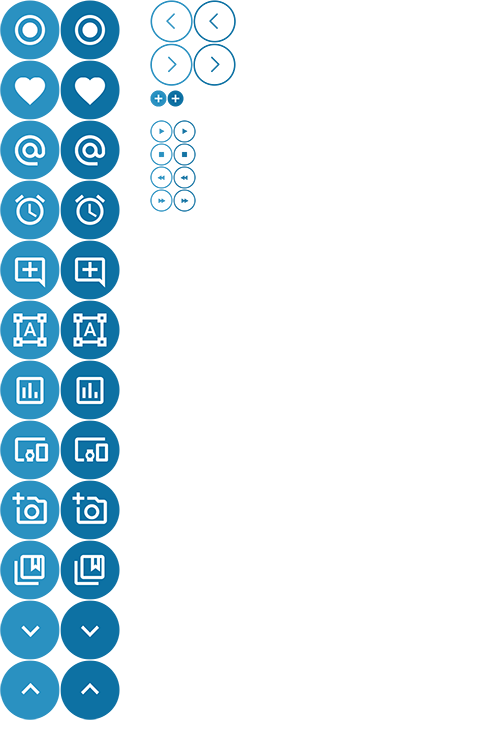
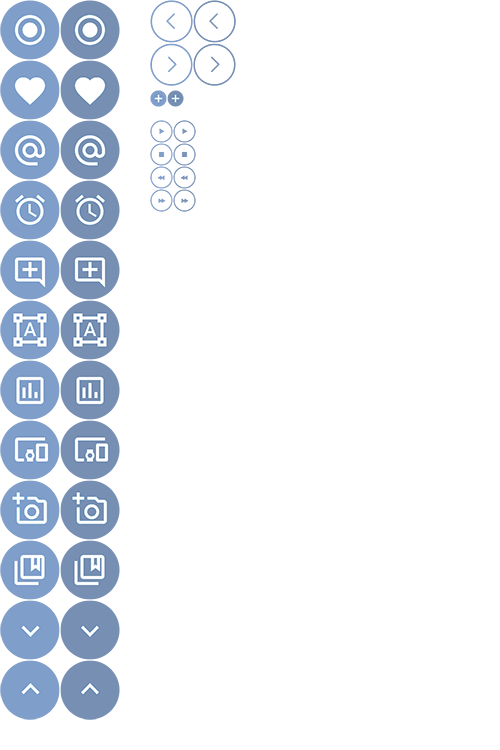
디자인수정

Changed region(s): [[0.0, 0.0, 0.24, 0.9813], [0.3, 0.0, 0.48, 0.276]]

diff --git a/css/style.css b/css/style.css
@@ -1,4 +1,5 @@
 @charset "utf-8";
+/* 스타일 시트의 인코딩을 Unicode UTF-8로 설정 */
 
 /* 스킵 네비게이션 */
 #skip {
@@ -26,7 +27,7 @@
 
 #header {
     height: 325px;
-    background: url(../img/header_bg.jpg) center top repeat-x;
+    background: url(../img/header_bg.jpg) top;
 }
 
 #footer {
@@ -35,20 +36,20 @@
 
 /* 컨텐츠 레이아웃 */
 #cont_nav {
-    background-color: #f6fdff;
+    background-color: #f9fafe;
     display: none;
 }
 
 #cont_tit {
-    background-color: #eaf7fd;
+    background-color: #f0f3fd;
 }
 
 #cont_ban {
-    background-color: #dceff7;
+    background-color: #e7ebfb;
 }
 
 #cont_cont {
-    background-color: #f6fdff;
+    background-color: #F9FAFE;
 }
 
 /* 컨테이너 */
@@ -56,9 +57,7 @@
     width: 990px;
     height: inherit;
     margin: 0 auto;
-    /* background: rgba(255,255,255,0.3); */
 }
-
 
 /* 헤더 */
 .header .header_menu {
@@ -80,7 +79,7 @@
 }
 
 .header .header_tit h1 {
-    background-color: #4aa8d4;
+    background-color: #bacae1;
     font-size: 28px;
     padding: 5px 20px 6px 20px;
     display: inline-block;
@@ -88,15 +87,17 @@
     margin-top: 40px;
     font-weight: normal;
     text-transform: uppercase;
+    border-radius: 50px;
 }
 
 .header .header_tit a {
     display: inline-block;
-    background-color: #2698cd;
+    background-color: #97afd2;
     font-size: 18px;
     color: #fff;
     padding: 5px 20px 6px 20px;
     margin-top: -5px;
+    border-radius: 50px;
 }
 
 .header .header_icon {
@@ -171,7 +172,7 @@
 
 .nav > div h3 {
     font-size: 18px;
-    color: #25a2d0;
+    color: #97afd2;
     margin-bottom: 4px;
 
 }
@@ -203,7 +204,7 @@
     text-align: center;
     padding: 5px 0;
     letter-spacing: 2px;
-    color: #2c94c4;
+    color: #97afd2;
     font-family: 'Noto Sans KR', sans-serif;
 }
 
@@ -321,7 +322,7 @@
 }
 
 .ban img:hover {
-    border-color: #98dcbc;
+    border-color: #6186ba;
 }
 
 .ban .slick-slide {
@@ -350,12 +351,12 @@
     width: 15px;
     height: 15px;
     cursor: pointer;
-    background: #5dbfeb;
+    background: #98AFD2;
     border-radius: 50%;
 }
 
 .ban .slick-dots li.slick-active button {
-    background: #2b91c8;
+    background: #6682aa;
 
 }
 
@@ -375,20 +376,20 @@
 }
 
 .cont .col1 {
-    border-right: 1px solid #c8c8c8;
+    border-right: 1px solid #e5ebf4;
 }
 .cont .col2 {
-    border-right: 1px solid #c8c8c8;
+    border-right: 1px solid #e5ebf4;
 }
 .cont .col3 {
     margin-right: 0;
     padding-right: 0;
 }
 .cont .col4 {
-    border-right: 1px solid #c8c8c8;
+    border-right: 1px solid #e5ebf4;
 }
 .cont .col5 {
-    border-right: 1px solid #c8c8c8;
+    border-right: 1px solid #e5ebf4;
 }
 .cont .col6 {
     margin-right: 0;
@@ -409,12 +410,12 @@
 .cont .column .ico_tit {
     padding-left: 70px;
     font-size: 16px;
-    color: #2c94c4;
+    color: #97afd2;
 }
 
 .cont .column .ico_desc {
     padding-left: 70px;
-    border-bottom: 1px solid #d0d0d0;
+    border-bottom: 1px solid #e5ebf4;
     padding-bottom: 15px;
     margin-bottom: 15px;
 }
@@ -432,7 +433,7 @@
     background-position: 0px -420px; 
 }
 .cont .col5 .ico_img {
-    background-position: 0px -480 px; 
+    background-position: 0px -480px; 
 }
 .cont .col6 .ico_img {
     background-position: 0px -540px; 
@@ -463,7 +464,7 @@
 }
 .notice h4 {
     font-size: 14px;
-    color: #0093bd; 
+    color: #768fb3; 
     padding-bottom: 3px; 
     font-weight: bold;
 }
@@ -471,7 +472,7 @@
     overflow: hidden;
     text-overflow: ellipsis;
     white-space: nowrap;
-    background: url(../img/dot.gif) no-repeat 0 8px; 
+    background: url(../img/dot.png) no-repeat 0 8px; 
     padding-left: 8px;
 }
 
@@ -497,7 +498,7 @@
 
 .notice2 h4 {
     font-size: 14px;
-    color: #0093bd; 
+    color: #768fb3; 
     padding-bottom: 3px; 
     font-weight: bold;
 }
@@ -506,7 +507,7 @@
     overflow: hidden;
     text-overflow: ellipsis;
     white-space: nowrap;
-    background: url(../img/dot.gif) no-repeat 0 8px; 
+    background: url(../img/dot.png) no-repeat 0 8px; 
     padding-left: 8px;
 }
 
@@ -540,7 +541,7 @@
 
 .notice3 h4 {
     font-size: 14px;
-    color: #0093bd; 
+    color: #768fb3; 
     padding-bottom: 3px; 
     font-weight: bold;
 }
@@ -585,7 +586,7 @@
 /* 마우스 오버효과1 */
 .notice_hover h4 {
     font-size: 14px;
-    color: #0093bd; 
+    color: #768fb3; 
     padding-bottom: 3px; 
     font-weight: bold;
 }
@@ -730,7 +731,7 @@
 .tab_menu ul li ul li {
     float: none;
     border: 0;
-    background: url(../img/dot.gif) no-repeat 9px 8px;
+    background: url(../img/dot.png) no-repeat 9px 8px;
     padding-left: 18px;
 }
 
@@ -743,7 +744,7 @@
 }
 
 .tab_menu ul li.active {
-    background: #2c94c4;
+    background: #809eca;
 }
 
 .tab_menu ul li.active a {
@@ -763,7 +764,7 @@
 .notice4 h4 {
     font-size: 14px;
     border-bottom: 1px solid #ccc;
-    color: #0093bd; 
+    color: #768fb3; 
     font-weight: 700; 
     padding: 8px 10px;
 }
@@ -778,7 +779,7 @@
 
 .notice4 ul li {
     overflow: hidden;
-    background: url(../img/dot.gif) no-repeat 0 8px;
+    background: url(../img/dot.png) no-repeat 0 8px;
     padding-left: 8px;
     padding-bottom: 2px;
 }
@@ -813,7 +814,7 @@
 
 .gallery h4 {
     font-size: 14px;
-    color: #0093bd;
+    color: #768fb3;
     border-bottom: 1px solid #ccc;
     padding: 10px 0 8px 11px;
     font-weight: bold;
@@ -922,7 +923,7 @@
 /* 로그인 */
 
 #login_wrap {
-    background: #f2f5f4;
+    background: #F0F3FD;
     padding: 15px;
     margin-bottom: 15px;
 }
@@ -947,7 +948,7 @@
 }
 
 .login_header .lh_ip em {
-    color: #0093bd;
+    color: #cf3292;
     text-decoration: underline;
 }
 
@@ -989,7 +990,7 @@
 /* 팝업 */
 .popup h4 {
     font-size: 14px;
-    color: #0093bd;
+    color: #768fb3;
     padding-bottom: 4px;
     font-weight: 700;
 }

diff --git a/index.html b/index.html
@@ -144,15 +144,15 @@
                             <li><a href="#" class="ban_img3"><img src="img/banner_link3.jpg" alt="로그인 폼 만들기"></a></li>
                         </ul>
                         <a href="#" class="next"><span class="ir_pm">다음 이미지</span></a>     -->
-                        <div><a href="#" class="ban_img1"><img src="img/banner_link1.jpg" alt="웹 표준 지침서 보기"></a></div>
-                        <div><a href="#" class="ban_img1"><img src="img/banner_link2.jpg" alt="CSS 버튼 만들기"></a></div>
-                        <div><a href="#" class="ban_img1"><img src="img/banner_link3.jpg" alt="로그인 폼 만들기"></a></div>
-                        <div><a href="#" class="ban_img1"><img src="img/banner_link1.jpg" alt="웹 표준 지침서 보기"></a></div>
-                        <div><a href="#" class="ban_img1"><img src="img/banner_link2.jpg" alt="CSS 버튼 만들기"></a></div>
-                        <div><a href="#" class="ban_img1"><img src="img/banner_link3.jpg" alt="로그인 폼 만들기"></a></div>
-                        <div><a href="#" class="ban_img1"><img src="img/banner_link1.jpg" alt="웹 표준 지침서 보기"></a></div>
-                        <div><a href="#" class="ban_img1"><img src="img/banner_link2.jpg" alt="CSS 버튼 만들기"></a></div>
-                        <div><a href="#" class="ban_img1"><img src="img/banner_link3.jpg" alt="로그인 폼 만들기"></a></div>
+                        <div><a href="#" class="ban_img1"><img src="img/banner_link1.png" alt="웹 표준 지침서 보기"></a></div>
+                        <div><a href="#" class="ban_img1"><img src="img/banner_link2.png" alt="CSS 버튼 만들기"></a></div>
+                        <div><a href="#" class="ban_img1"><img src="img/banner_link3.png" alt="로그인 폼 만들기"></a></div>
+                        <div><a href="#" class="ban_img1"><img src="img/banner_link1.png" alt="웹 표준 지침서 보기"></a></div>
+                        <div><a href="#" class="ban_img1"><img src="img/banner_link2.png" alt="CSS 버튼 만들기"></a></div>
+                        <div><a href="#" class="ban_img1"><img src="img/banner_link3.png" alt="로그인 폼 만들기"></a></div>
+                        <div><a href="#" class="ban_img1"><img src="img/banner_link1.png" alt="웹 표준 지침서 보기"></a></div>
+                        <div><a href="#" class="ban_img1"><img src="img/banner_link2.png" alt="CSS 버튼 만들기"></a></div>
+                        <div><a href="#" class="ban_img1"><img src="img/banner_link3.png" alt="로그인 폼 만들기"></a></div>
                     </div>
                 </div>
             </div>
